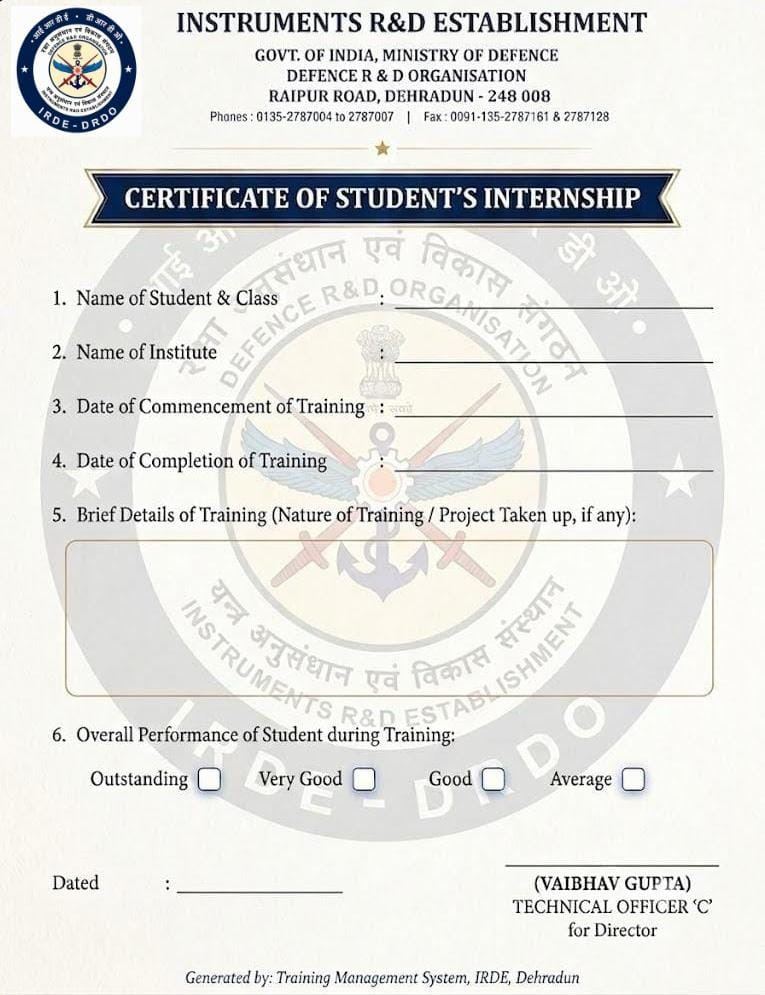
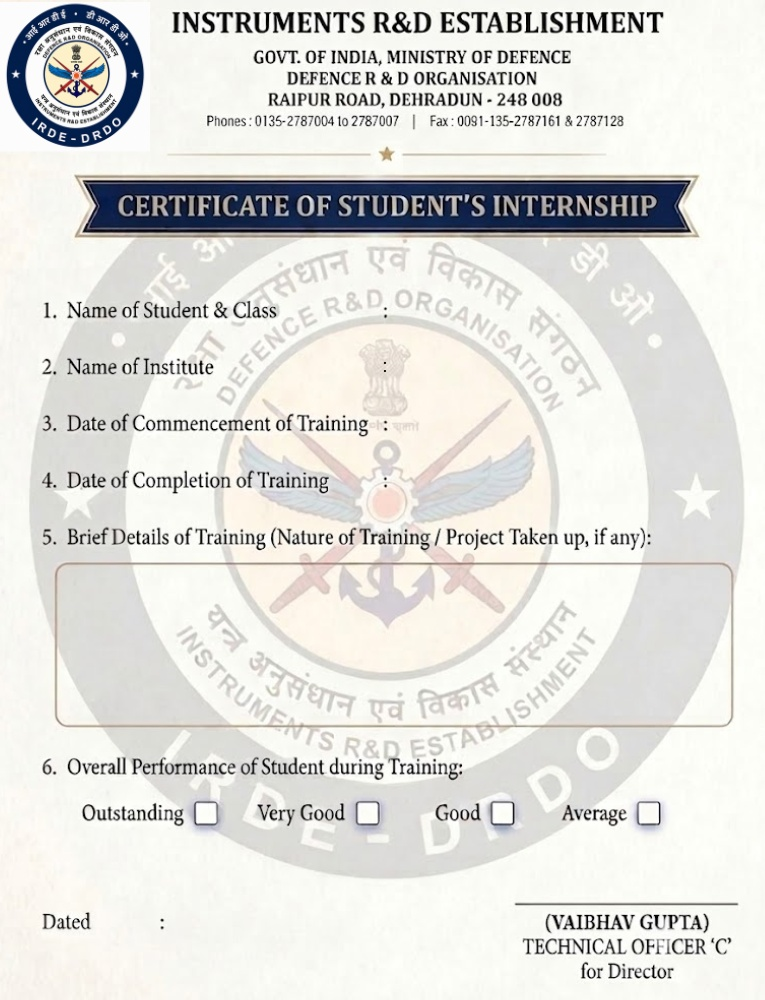
update

diff --git a/backend/services/certificateService.js b/backend/services/certificateService.js
@@ -39,45 +39,28 @@ function certificateFileName(student) {
 function generateCertificateHtml(student) {
   const training = student.trainingManagement || {};
   
-  // Format dates
   const fromDate = formatDate(training.fromDate);
   const toDate = formatDate(training.toDate);
   const completionDate = formatDate(training.completionDate || student.completedDate || new Date());
   
-  // Sizing Class Name
-  const studentNameClass = `${student.name || ""} (${student.course || ""} ${student.branch || ""})`;
+  const studentNameClass = `${(student.name || "").toUpperCase()} (${(student.course || "").toUpperCase()} ${(student.year || "").toUpperCase()}, ${(student.branch || "").toUpperCase()})`;
+  const collegeNameAddress = `${(student.collegeName || "").toUpperCase()}${student.collegeAddress ? `, ${(student.collegeAddress || "").toUpperCase()}` : ""}`;
   
-  // Performance Checkboxes coordinates
-  const perf = (training.leaveAvailed || training.performance || "Outstanding").trim().toLowerCase();
+  const perf = (training.leaveAvailed || training.performance || "").trim().toLowerCase();
   
-  let checkLeft = "81mm";
-  if (perf.includes("very good") || perf.includes("verygood")) {
-    checkLeft = "121.5mm";
+  let checkLeft = "";
+  if (perf.includes("outstanding")) {
+    checkLeft = "72.8mm";
+  } else if (perf.includes("very good") || perf.includes("verygood")) {
+    checkLeft = "119.5mm";
   } else if (perf.includes("good") && !perf.includes("very")) {
-    checkLeft = "153.5mm";
+    checkLeft = "154.5mm";
   } else if (perf.includes("average")) {
-    checkLeft = "187mm";
+    checkLeft = "189.5mm";
   }
 
-  // Format details block
-  const projectTitle = training.projectTitle || "";
-  const projectGuide = training.projectGuide || "";
-  const designation = training.designation || "";
-  const division = training.division || "";
-  
-  let detailsHtml = "";
-  if (projectTitle) {
-    detailsHtml += `<strong>Project Title:</strong> ${escapeHtml(projectTitle)}<br/>`;
-  }
-  if (projectGuide) {
-    detailsHtml += `<strong>Project Guide:</strong> ${escapeHtml(projectGuide)} ${designation ? `(${escapeHtml(designation)})` : ""}<br/>`;
-  }
-  if (division) {
-    detailsHtml += `<strong>Division:</strong> ${escapeHtml(division)}<br/>`;
-  }
-  if (!detailsHtml) {
-    detailsHtml = `Completed short-term practical training/project work successfully at IRDE, Dehradun.`;
-  }
+  const projectTitle = (training.projectTitle || "").trim();
+  const detailsHtml = projectTitle ? `"${escapeHtml(projectTitle.toUpperCase())}"` : "";
 
   return `<!doctype html>
 <html>
@@ -101,68 +84,66 @@ function generateCertificateHtml(student) {
     background-size: 100% 100%;
     background-position: center;
     background-repeat: no-repeat;
-    font-family: Arial, Helvetica, sans-serif;
-    color: #0f172a;
+    font-family: Georgia, 'Times New Roman', Times, serif;
+    color: black;
     -webkit-print-color-adjust: exact;
   }
   .field {
     position: absolute;
-    font-size: 14.5px;
-    font-weight: bold;
-    color: #1e3a8a;
+    font-size: 16px;
+    font-weight: normal;
+    color: black;
+    font-family: Georgia, 'Times New Roman', Times, serif;
+    line-height: 1;
   }
   .details-box {
     position: absolute;
-    top: 166mm;
+    top: 168mm;
     left: 24mm;
     width: 162mm;
     height: 44mm;
-    font-size: 13px;
+    font-size: 16px;
     line-height: 1.6;
-    color: #1e3a8a;
+    color: black;
+    font-family: Georgia, 'Times New Roman', Times, serif;
+    font-weight: bold;
+    text-align: center;
     padding: 8px 12px;
     overflow: hidden;
   }
 </style>
 </head>
 <body>
-  <!-- Certificate Number -->
-  <div class="field" style="top: 36mm; right: 24mm; font-size: 12px;">
-    Ref No: ${escapeHtml(student.referenceId)}
-  </div>
-
   <!-- 1. Name of Student & Class -->
-  <div class="field" style="top: 86.8mm; left: 74mm;">
+  <div class="field" style="top: 86.8mm; left: 84mm; max-width: 102mm; overflow: hidden; text-overflow: ellipsis; white-space: nowrap;">
     ${escapeHtml(studentNameClass)}
   </div>
 
   <!-- 2. Name of Institute -->
-  <div class="field" style="top: 104.5mm; left: 74mm; max-width: 112mm; overflow: hidden; text-overflow: ellipsis; white-space: nowrap;">
-    ${escapeHtml(student.collegeName)}${student.collegeAddress ? `, ${escapeHtml(student.collegeAddress)}` : ""}
+  <div class="field" style="top: 104.6mm; left: 84mm; max-width: 102mm; overflow: hidden; text-overflow: ellipsis; white-space: nowrap;">
+    ${escapeHtml(collegeNameAddress)}
   </div>
 
   <!-- 3. Date of Commencement of Training -->
-  <div class="field" style="top: 122.2mm; left: 102mm;">
+  <div class="field" style="top: 122.3mm; left: 108mm;">
     ${escapeHtml(fromDate)}
   </div>
 
   <!-- 4. Date of Completion of Training -->
-  <div class="field" style="top: 140mm; left: 102mm;">
+  <div class="field" style="top: 140.2mm; left: 108mm;">
     ${escapeHtml(toDate)}
   </div>
 
-  <!-- 5. Brief Details of Training Box -->
+  <!-- 5. Brief Details of Training Box (Project Title Only, Uppercase, Center aligned) -->
   <div class="details-box">
     ${detailsHtml}
   </div>
 
   <!-- 6. Overall Performance Checkmark -->
-  <div class="field" style="top: 231.8mm; left: ${checkLeft}; font-size: 20px; color: #1e3a8a; font-family: 'Arial', sans-serif;">
-    ✔
-  </div>
+  ${checkLeft ? `<div class="field" style="top: 231.2mm; left: ${checkLeft}; font-size: 20px; color: black; font-family: Georgia, 'Times New Roman', Times, serif;">✔</div>` : ""}
 
   <!-- Dated -->
-  <div class="field" style="top: 263.2mm; left: 58mm;">
+  <div class="field" style="top: 263.2mm; left: 60mm;">
     ${escapeHtml(completionDate)}
   </div>
 </body>

diff --git a/web-portal/src/pages/AdminDashboard.jsx b/web-portal/src/pages/AdminDashboard.jsx
@@ -96,16 +96,53 @@ function AdminDashboard() {
   const [students, setStudents] = useState([]);
   const [allStudents, setAllStudents] = useState([]);
   const [summary, setSummary] = useState({});
-  const [search, setSearch] = useState("");
+  const [search, setSearch] = useState(() => {
+    const path = window.location.pathname;
+    if (path.startsWith("/admin/approved-students")) {
+      return sessionStorage.getItem("approved_search") || "";
+    }
+    return "";
+  });
   const [internshipTypeFilter, setInternshipTypeFilter] = useState("all");
   const [filters, setFilters] = useState(() => {
     const path = window.location.pathname;
     if (path.startsWith("/admin/approved-students")) {
+      try {
+        const saved = sessionStorage.getItem("approved_filters");
+        if (saved) return JSON.parse(saved);
+      } catch (e) {}
       return { ...initialFilters, status: "Approved", internshipType: "" };
     }
     return initialFilters;
   });
-  const [sort, setSort] = useState({ sortBy: "submittedAt", sortOrder: "desc" });
+  const [sort, setSort] = useState(() => {
+    const path = window.location.pathname;
+    if (path.startsWith("/admin/approved-students")) {
+      try {
+        const saved = sessionStorage.getItem("approved_sort");
+        if (saved) return JSON.parse(saved);
+      } catch (e) {}
+    }
+    return { sortBy: "submittedAt", sortOrder: "desc" };
+  });
+
+  useEffect(() => {
+    if (window.location.pathname.startsWith("/admin/approved-students")) {
+      sessionStorage.setItem("approved_search", search);
+    }
+  }, [search]);
+
+  useEffect(() => {
+    if (window.location.pathname.startsWith("/admin/approved-students")) {
+      sessionStorage.setItem("approved_filters", JSON.stringify(filters));
+    }
+  }, [filters]);
+
+  useEffect(() => {
+    if (window.location.pathname.startsWith("/admin/approved-students")) {
+      sessionStorage.setItem("approved_sort", JSON.stringify(sort));
+    }
+  }, [sort]);
   const [loading, setLoading] = useState(true);
   const [deleteMode, setDeleteMode] = useState(false);
   const [selectedIds, setSelectedIds] = useState([]);
@@ -478,6 +515,15 @@ function AdminDashboard() {
   const documentStudents = useMemo(() => {
     return allStudents
       .filter((student) => student.status === "Approved")
+      .filter((student) => {
+        if (filters.internshipType === "Paid") {
+          return student.internshipType === "Paid";
+        }
+        if (filters.internshipType === "Unpaid") {
+          return student.internshipType === "Unpaid" || !student.internshipType;
+        }
+        return true;
+      })
       .filter((student) => {
         if (documentModal === "certificate") {
           return student.trainingManagement?.completed === "Yes";

diff --git a/web-portal/src/components/Admin/DivisionBranchAnalytics.jsx b/web-portal/src/components/Admin/DivisionBranchAnalytics.jsx
@@ -102,18 +102,14 @@ export default function DivisionBranchAnalytics({ administration, students, load
             <thead>
               <tr>
                 <th>{mode === "branch" ? "Division" : "Branch"}</th>
-                <th style={{ textAlign: "right" }}>Paid</th>
-                <th style={{ textAlign: "right" }}>Unpaid</th>
-                <th style={{ textAlign: "right" }}>Total</th>
+                <th>Allocated Students</th>
               </tr>
             </thead>
             <tbody>
               {sortedRows.map((row) => (
                 <tr key={row.label}>
                   <td>{row.label}</td>
-                  <td style={{ textAlign: "right" }}>{row.paid}</td>
-                  <td style={{ textAlign: "right" }}>{row.unpaid}</td>
-                  <td style={{ textAlign: "right", fontWeight: "bold" }}>{row.value}</td>
+                  <td>{row.value}</td>
                 </tr>
               ))}
             </tbody>

diff --git a/backend/services/pdfService.js b/backend/services/pdfService.js
@@ -59,6 +59,8 @@ async function renderPdf(browser, html) {
     const pdfBuffer = await page.pdf({
       format: "A4",
       printBackground: true,
+      margin: { top: 0, right: 0, bottom: 0, left: 0 },
+      preferCSSPageSize: true,
     });
     return Buffer.from(pdfBuffer);
   } finally {
